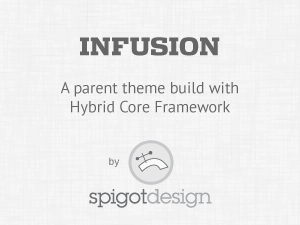
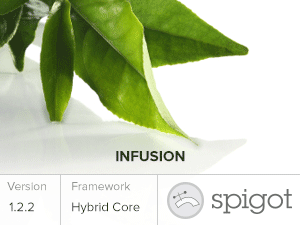
Updated screenshot; Changed version number to 1.2.2 in styles.css

diff --git a/style.css b/style.css
@@ -2,7 +2,7 @@
  * Theme Name: Infusion
  * Theme URI: http://spigotdesign.com
  * Description: A Parent theme framework using Hybrid Core. It's HTML5 ready, with some basic styles set.  
- * Version: 2.0
+ * Version: 1.2.2
  * Author: Spgiot Design
  * Author URI: http://spigotdesign.com/
  * Tags: html5, hybrid core, HTML5 Boilerplate
